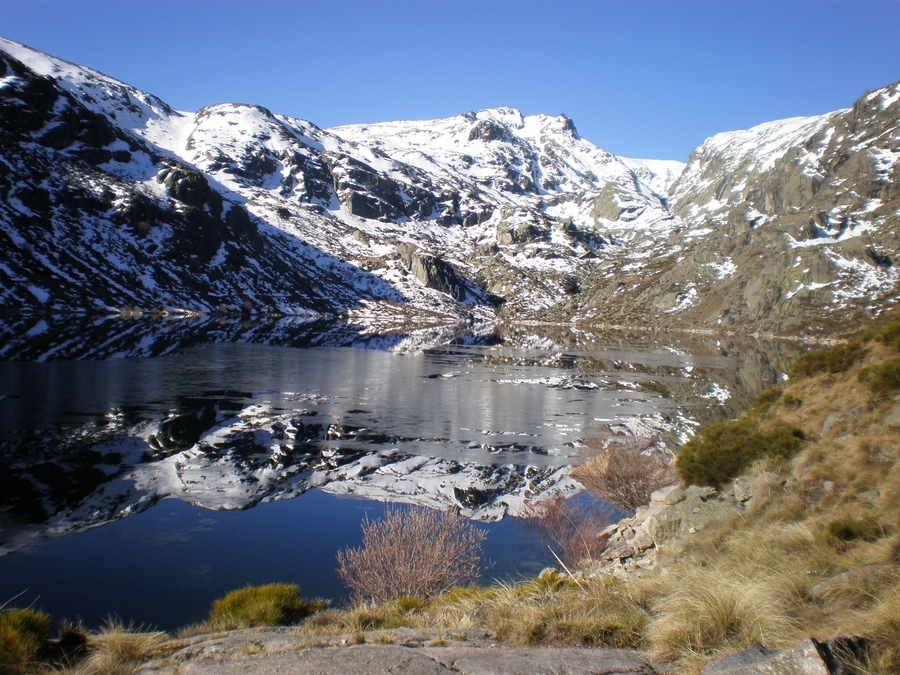
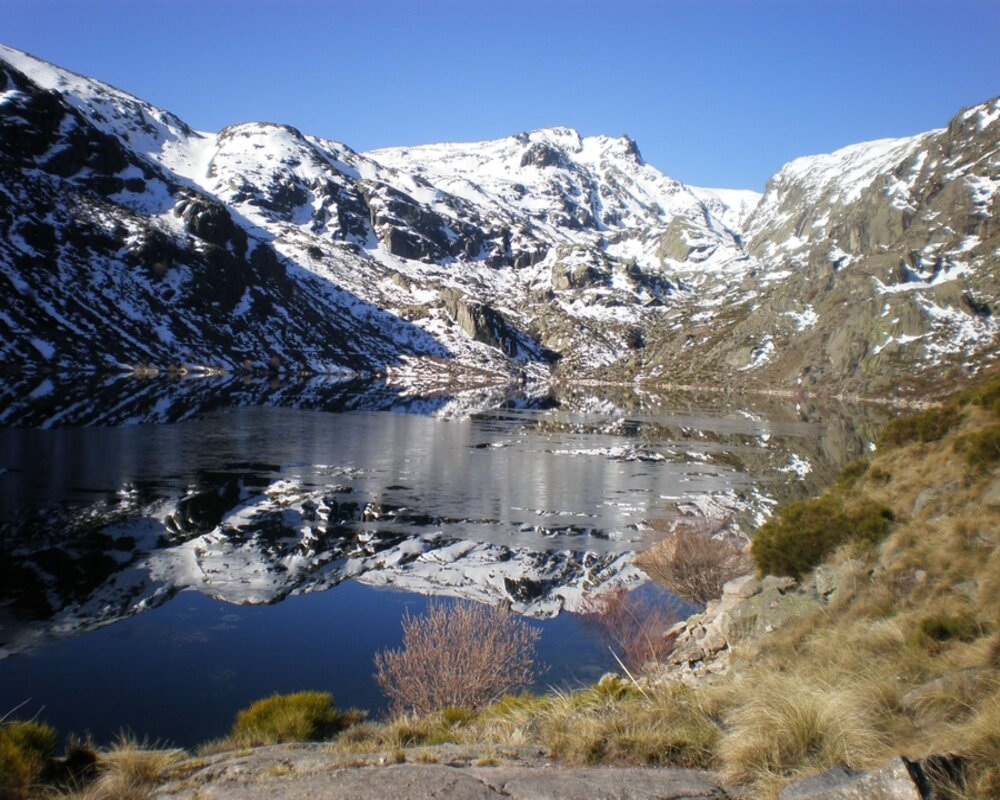
Galería de imagenes e intento de scroll hacia arriba aniadido

diff --git a/index.html b/index.html
@@ -15,7 +15,6 @@
     
 </head>
 <body>
-    
     <div class="banner">
         <nav>
             <a href="#">Lugares</a>
@@ -43,11 +42,6 @@
             Aquí, en cada rincón del mundo, existen tesoros ocultos esperando ser encontrados y explorados.
              Nuestra misión es llevarte en un viaje de descubrimiento y maravilla, revelando lugares secretos y desconocidos
               que te dejarán sin aliento.</p>
-        <p>
-            Prepárate para sumergirte en paisajes impresionantes, admirar la belleza natural en su estado más puro y conocer culturas 
-            fascinantes que han permanecido intactas durante generaciones. Cada lugar que descubrirás te dejará sin aliento, 
-            y te permitirá conectarte con la esencia misma de la exploración y el descubrimiento.
-        </p>
         
         <p>¿Alguna vez has soñado con alejarte de los destinos turísticos comunes y adentrarte en lo desconocido? 
             ¡Entonces has llegado al lugar adecuado! En esta página, te sumergirás en un universo lleno de misterio y emoción, 
@@ -56,48 +50,47 @@
 
     <div class="content2">
         <h1>Diversidad de lugares para descubrir</h1>
-        <p>Localización de los lugares: "España"</p>
-       <div class="tamano">
+        <p class="center">Localización de los lugares: "España"</p>
+       <div class="contentcenter">
         <div id="carouselExampleIndicators" class="carousel slide">
-            <div class="carousel-indicators">
-              <button type="button" data-bs-target="#carouselExampleIndicators" data-bs-slide-to="0" class="active" aria-current="true" aria-label="Slide 1"></button>
-              <button type="button" data-bs-target="#carouselExampleIndicators" data-bs-slide-to="1" aria-label="Slide 2"></button>
-              <button type="button" data-bs-target="#carouselExampleIndicators" data-bs-slide-to="2" aria-label="Slide 3"></button>
-            </div>
-            <div class="carousel-inner">
-              <div class="carousel-item active">
-                <img src="img/2.jpg" class="d-block w-100" alt="...">
-              </div>
-              <div class="carousel-item">
-                <img src="img/3.jpg" class="d-block w-100" alt="...">
-              </div>
-              <div class="carousel-item">
-                <img src="img/5.jpg" class="d-block w-100" alt="...">
-              </div>
-            </div>
-            <button class="carousel-control-prev" type="button" data-bs-target="#carouselExampleIndicators" data-bs-slide="prev">
-              <span class="carousel-control-prev-icon" aria-hidden="true"></span>
-              <span class="visually-hidden">Previous</span>
-            </button>
-            <button class="carousel-control-next" type="button" data-bs-target="#carouselExampleIndicators" data-bs-slide="next">
-              <span class="carousel-control-next-icon" aria-hidden="true"></span>
-              <span class="visually-hidden">Next</span>
-            </button>
+          <div class="carousel-indicators">
+            <button type="button" data-bs-target="#carouselExampleIndicators" data-bs-slide-to="0" class="active" aria-current="true" aria-label="Slide 1"></button>
+            <button type="button" data-bs-target="#carouselExampleIndicators" data-bs-slide-to="1" aria-label="Slide 2"></button>
+            <button type="button" data-bs-target="#carouselExampleIndicators" data-bs-slide-to="2" aria-label="Slide 3"></button>
           </div>
-       </div>
-        <!--
-
-        <div class="wrapper">
-            <div class="carousel">
-                <img src="./img/1.jpg" alt="">
-                <img src="./img/2.jpg" alt="">
-                <img src="./img/3.jpg" alt="">
-                <img src="./img/4.jpg" alt="">
-                <img src="./img/5.jpg" alt="">
+          <div class="carousel-inner">
+            <div class="carousel-item carousel-image active">
+              <img src="img/2.jpg" class="d-block w-100" alt="...">
             </div>
+            <div class="carousel-item carousel-image">
+              <img src="img/4.jpg" class="d-block w-100" alt="...">
+            </div>
+            <div class="carousel-item carousel-image">
+              <img src="img/5.jpg" class="d-block w-100" alt="...">
+            </div>
+          </div>
+          <button class="carousel-control-prev" type="button" data-bs-target="#carouselExampleIndicators" data-bs-slide="prev">
+            <span class="carousel-control-prev-icon" aria-hidden="true"></span>
+            <span class="visually-hidden">Previous</span>
+          </button>
+          <button class="carousel-control-next" type="button" data-bs-target="#carouselExampleIndicators" data-bs-slide="next">
+            <span class="carousel-control-next-icon" aria-hidden="true"></span>
+            <span class="visually-hidden">Next</span>
+          </button>
         </div>
-         -->
+      
+       </div>
+       <button type="button" id="boton" class="btn btn-outline-light boton" onclick="verMas()">Ver más</button>
     </div>
+   <footer>
+    <a class="ir-arriba"  javascript:void(0) title="Volver arriba">
+      <span class="fa-stack">
+        <i class="fa fa-circle fa-stack-2x"></i>
+        <i class="fa fa-arrow-up fa-stack-1x fa-inverse"></i>
+      </span>
+    </a>
+
+   </footer>
     <script src="./js/scripts.js"></script>
     
 </body>

diff --git a/css/style.css b/css/style.css
@@ -62,6 +62,7 @@ p{
     margin: auto;
     margin-top: 40px;
     opacity: 0.7;
+    font-size: 1.1vw;
 }
 
 .layer-3{
@@ -101,13 +102,47 @@ p{
 
 
 .content2{
-    height: 80vh;
+    height: 100vh;
     background: #2A3340;
     padding: 150px;
     height: 80vh;
     position: relative;
     z-index: 1;
 }
-.tamano .carousel img{
-        height: 800px;
+.carousel-image{
+    height: 40vh;
 }
+.carousel{
+    width: 50%;
+}
+.contentcenter{
+    display: flex;
+    justify-content: center;
+    align-items: center;
+    margin: auto;
+    padding-bottom: 1%;
+}
+.center{
+    text-align: center;
+}
+.boton{
+    display: flex;
+    margin: auto;
+    
+}
+footer{
+    width: 100%;
+    height: 10vh;
+    background: #2A3340;
+}
+.ir-arriba{
+    display:none;
+    background-repeat:no-repeat;
+    font-size:20px;
+    color:black;
+    cursor:pointer;
+    position:fixed;
+    bottom:10px;
+    right:10px;
+    z-index:2;
+  }

diff --git a/js/scripts.js b/js/scripts.js
@@ -16,3 +16,19 @@ window.onscroll = function(){
     layer_4.style.transform = 'translateY('+ y/2 +'px)';
     layer_5.style.transform = 'translateY('+ y/3 +'px)';
 }
+
+function verMas(){
+    let boton = document.getElementById("boton")
+    boton.addEventListener("click", function(){
+        window.location.href = "google.com"
+    })
+}
+
+$(document).ready(function(){ irArriba(); }); //Hacia arriba
+function irArriba(){
+  $('.ir-arriba').click(function(){ $('body,html').animate({ scrollTop:'0px' },1000); });
+  $(window).scroll(function(){
+    if($(this).scrollTop() > 0){ $('.ir-arriba').slideDown(600); }else{ $('.ir-arriba').slideUp(600); }
+  });
+  $('.ir-abajo').click(function(){ $('body,html').animate({ scrollTop:'1000px' },1000); });
+}
